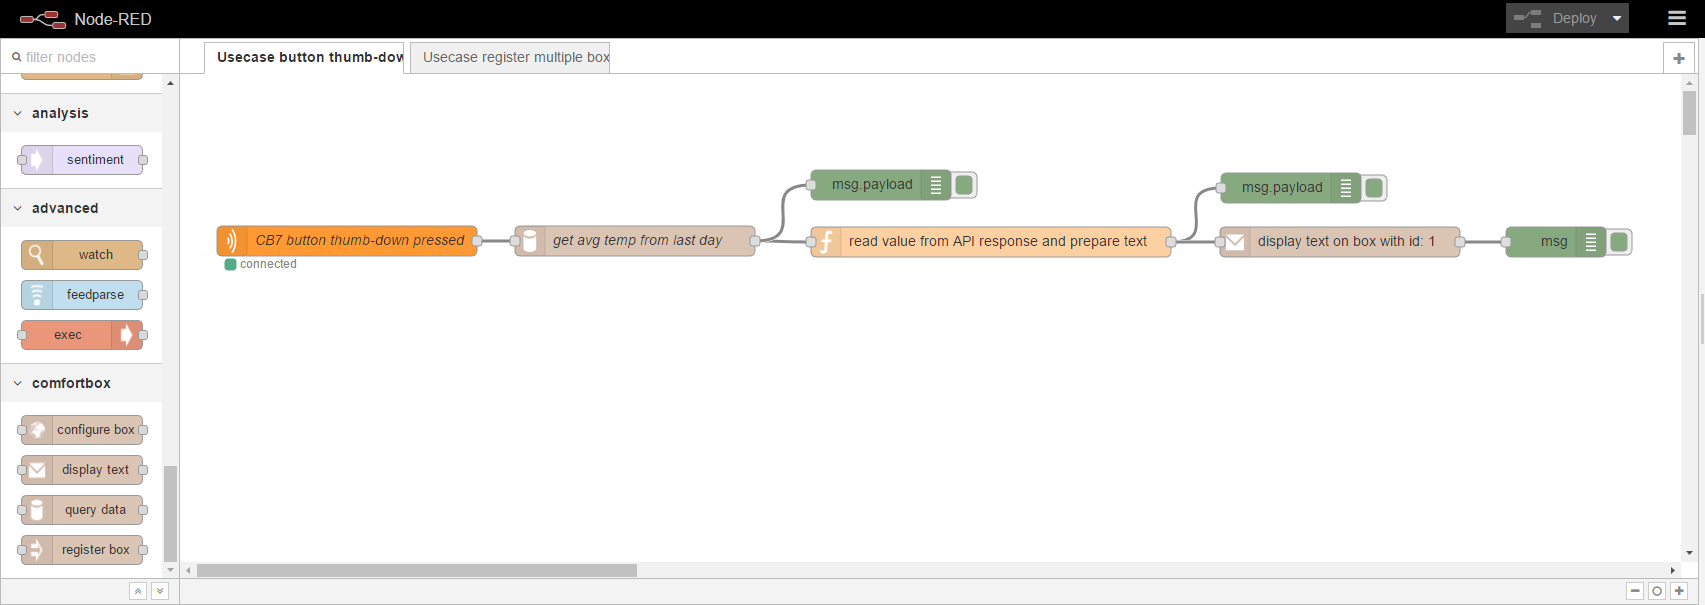
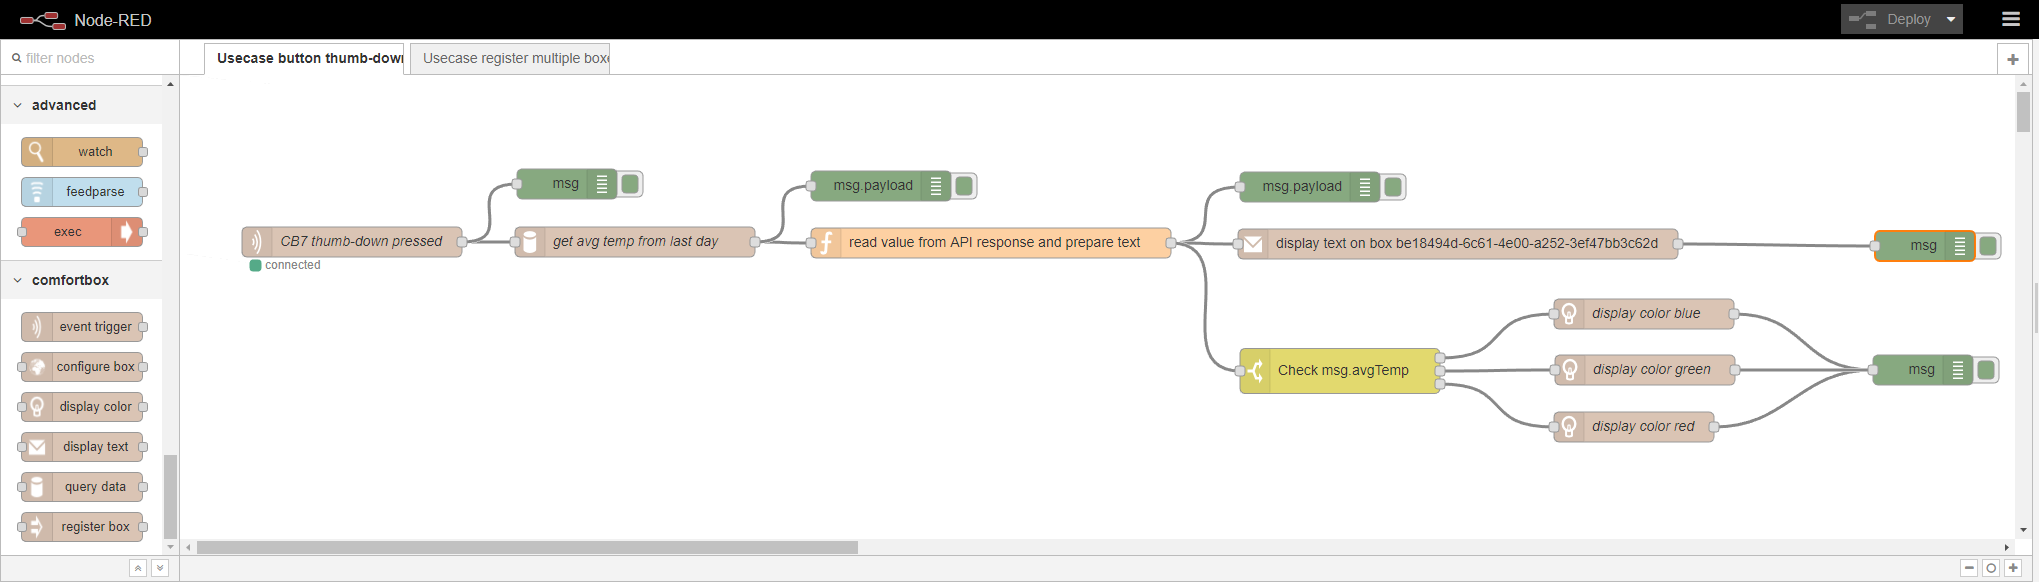
Update example flows

Changed region(s): [[0.0, 0.0, 1.0, 1.0], [0.2487, 0.2784, 0.3419, 0.3402]]

diff --git a/README.md b/README.md
@@ -8,7 +8,8 @@ The package contains the following Node-RED nodes:
 - `register box` \- A node to register a new comfortbox device to the API services.
 - `configure box`\- A node to configure a registered comfortbox device (e.g. set the MQTT host).
 - `query data` \- A node to query data of a comfortbox device.
-- `display text` \- A node display a text on a comfortbox device.
+- `display text` \- A node to display a text on a comfortbox device.
+- `display color` \- A node to display one or multiple colors on a comfortbox device.
 
 ## Example flows
 For adding the examples to your Node-RED installation, just copy the content of the file [Usecase flows](./examples/usecase_flows.json) and import it to Node-RED using the clipboard import.
@@ -25,5 +26,5 @@ This usecase shows an example of how to add functionality to a button.
 
 
 ## Installation
-Currently, the package is not yet available from the _npm repository_. For installing the nodes, just clone the repository to your Node-RED user folder (usually `~/.node-red/nodes`).
+Currently, the package is not yet available from the _npm repository_. For installing the nodes, just clone the repository into your Node-RED user folder (usually `~/.node-red/nodes`) and run `npm install .`.
 

diff --git a/CHANGELOG.md b/CHANGELOG.md
@@ -6,8 +6,19 @@ and this project adheres to [Semantic Versioning](http://semver.org/).
 
 ## [Unreleased]
 ### Added
+
+
+## [0.2.0] - 2017-06-23
+### Added
 - Node `event trigger`
 - Node `display color`
+
+### Changed
+- Update example flows
+
+### Fixed
+- Regex for boxId
+
 
 ## [0.1.0] - 2017-06-09
 ### Added
@@ -19,5 +30,6 @@ and this project adheres to [Semantic Versioning](http://semver.org/).
 - Node `query data`
 - Example flows
 
-[Unreleased]: https://github.com/dwettstein/node-red-contrib-comfortbox/compare/v0.1.0...HEAD
+[Unreleased]: https://github.com/dwettstein/node-red-contrib-comfortbox/compare/v0.2.0...HEAD
+[0.2.0]: https://github.com/dwettstein/node-red-contrib-comfortbox/compare/v0.1.0...v0.2.0
 [0.1.0]: https://github.com/dwettstein/node-red-contrib-comfortbox/tree/v0.1.0
